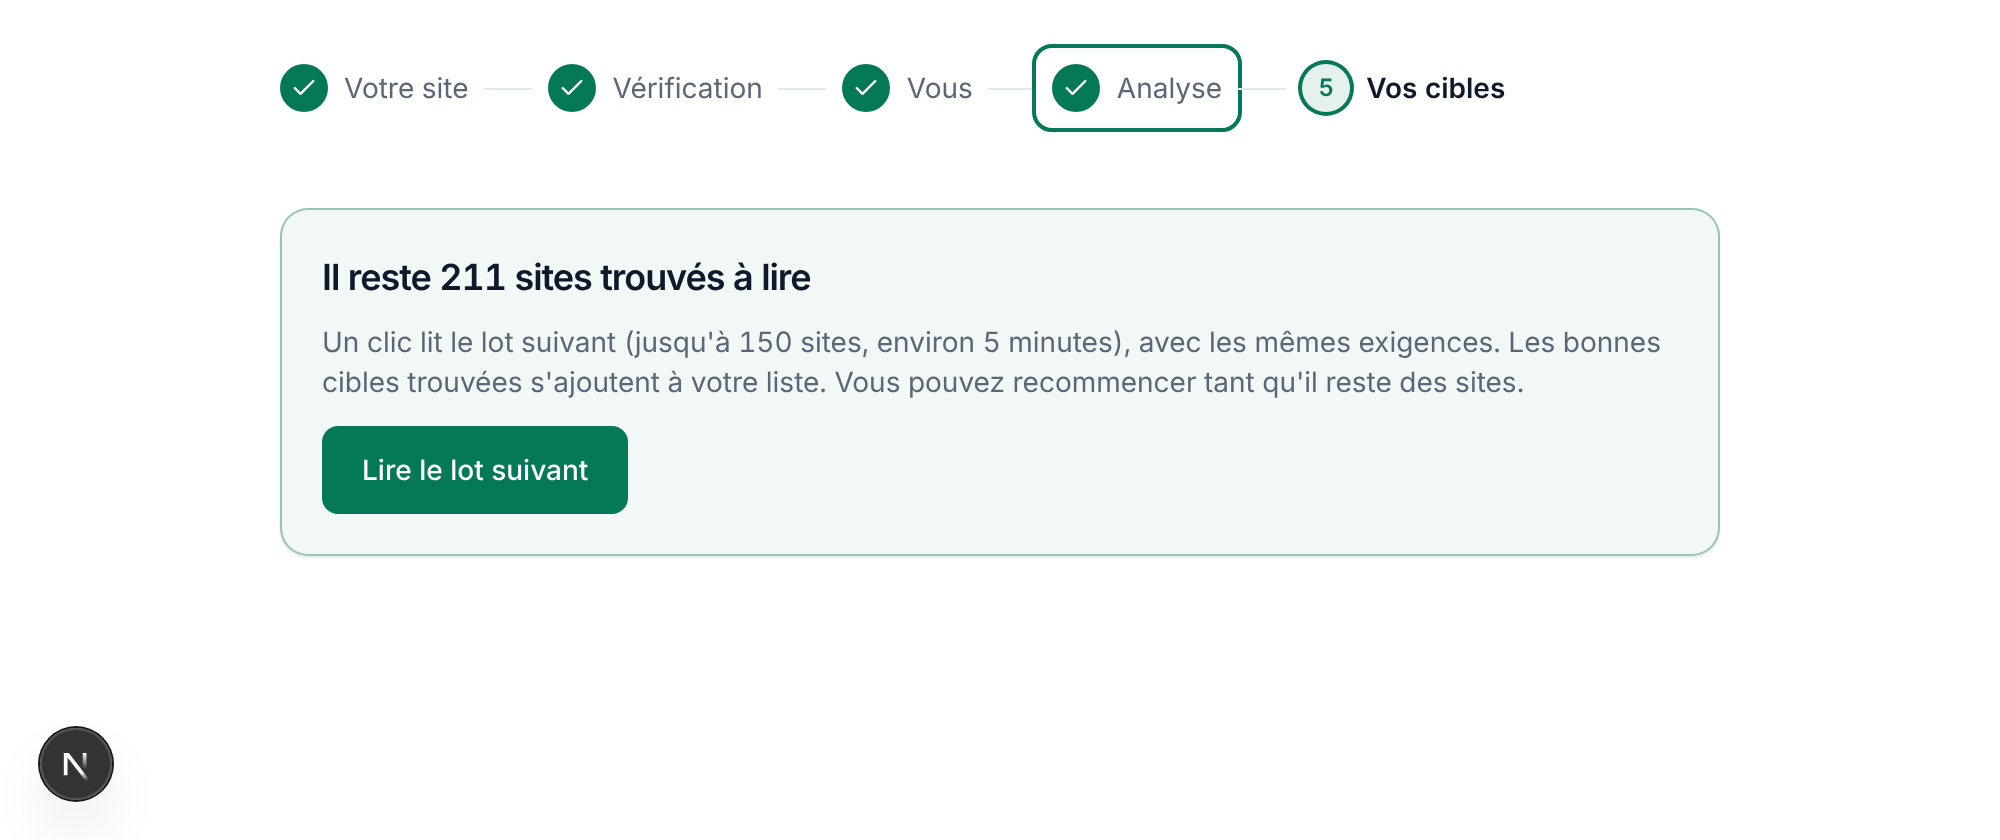
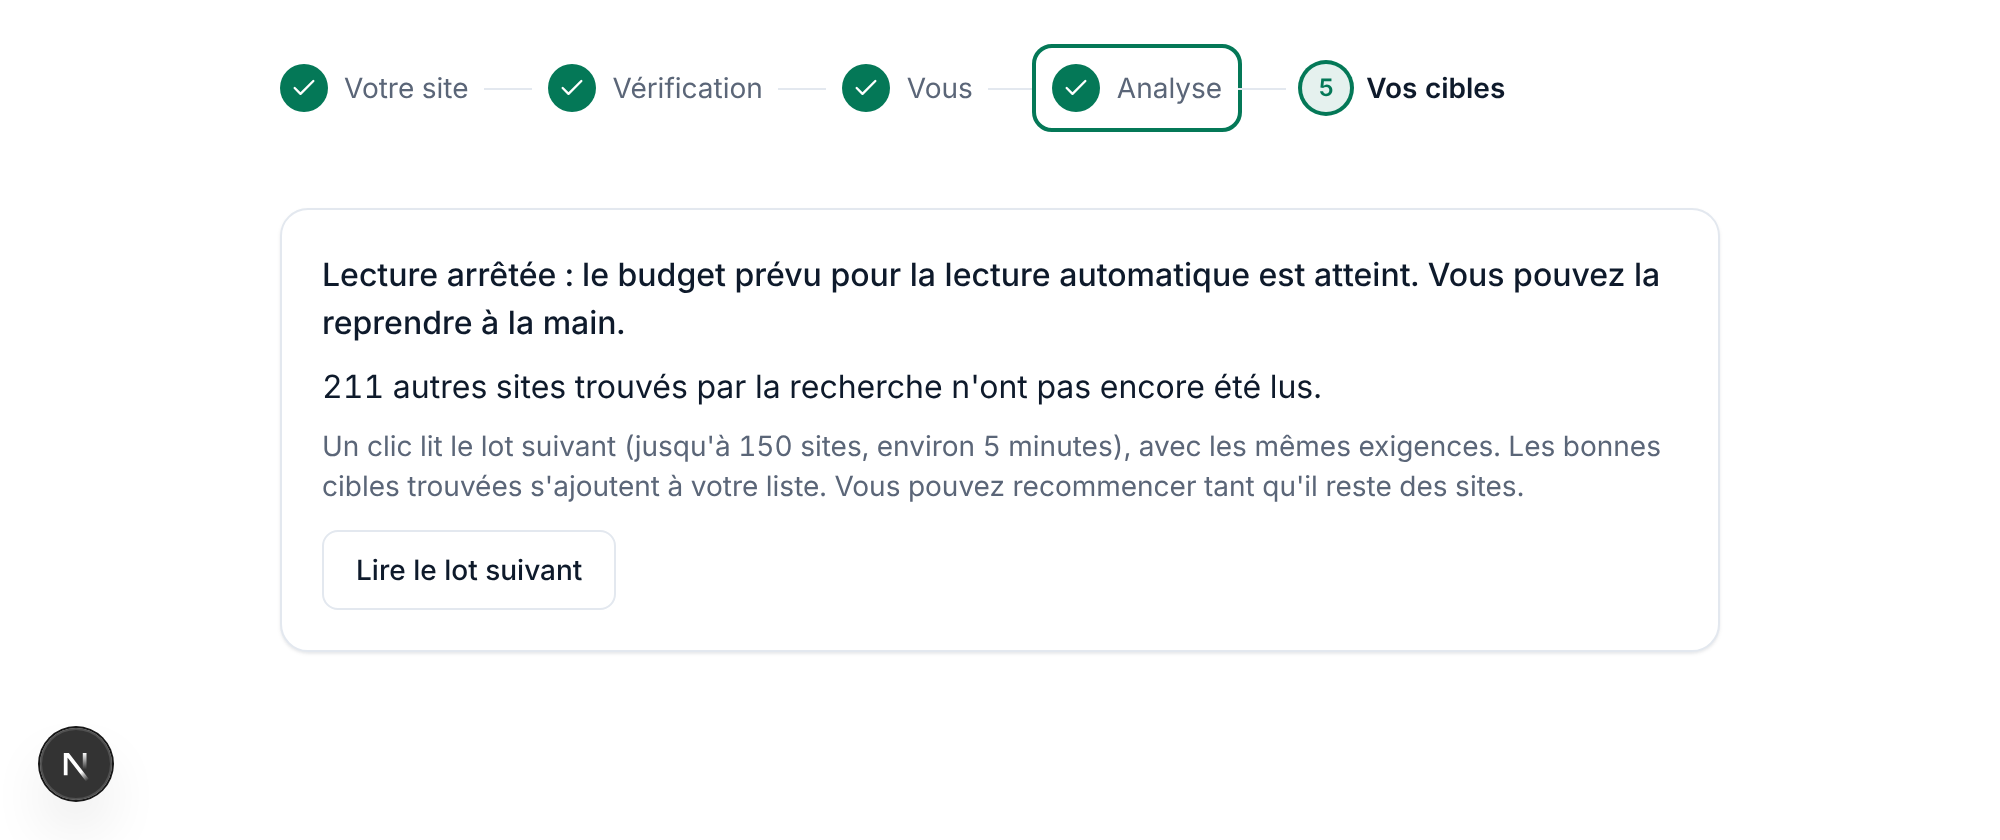
« Lire le lot suivant » : motif d'arrêt en clair, bouton secondaire
Lire les sites restants est le travail du produit : la carte dit pourquoi la
lecture automatique s'est arrêtée et propose de reprendre à la main, sans en
faire l'action principale. Conditions d'affichage inchangées.

Claude-Session: https://claude.ai/code/session_01PAPr5diAiCyyDNqhd4VWVd

Changed region(s): [[0.155, 0.3095, 0.837, 0.619], [0.155, 0.65, 0.31, 0.7119]]

diff --git a/src/features/targets/targets-screen.tsx b/src/features/targets/targets-screen.tsx
@@ -9,7 +9,6 @@ import { Card } from "@/components/ui/card";
 import { formatUsd } from "@/features/audits/format";
 import type { AuditActionState } from "@/features/audits/service";
 import { t } from "@/lib/messages";
-import { cn } from "@/lib/utils";
 import {
   cardTactics,
   countByTactic,
@@ -605,20 +604,19 @@ export function MoreSites({
   if (running) return null;
   if (funnel.stock === 0 && more.status === "aucun" && auto.status === "aucun") return null;
   return (
-    <Card
-      className={cn(
-        "flex flex-col gap-2 p-5",
-        // Des sites restent à lire : la carte se détache de la liste (retour de Jonathan, 18/11 : bouton introuvable).
-        funnel.stock > 0 && "border-primary/40 bg-primary/5",
-      )}
-      data-testid="more-sites"
-    >
+    <Card className="flex flex-col gap-2 p-5" data-testid="more-sites">
       {auto.status === "aucun" && more.status === "termine" && more.added !== null ? (
         <p className="font-medium">{R.done(more.added)}</p>
       ) : null}
+      {/* Lire les sites restants est le travail du produit, pas une étape attendue de la personne : la
+          carte dit d'abord POURQUOI la lecture automatique s'est arrêtée (précision de Jonathan, 18/11). */}
       {auto.status === "echoue" || (auto.status === "termine" && auto.stop === "erreur") ? (
         <p className="font-medium" data-testid="auto-done">
           {R.auto.stop.erreur}
+        </p>
+      ) : auto.status === "termine" && auto.stop && R.auto.stop[auto.stop] ? (
+        <p className="font-medium" data-testid="auto-stop">
+          {R.auto.stop[auto.stop]}
         </p>
       ) : null}
       {more.status === "echoue" && auto.status === "aucun" ? (
@@ -626,14 +624,13 @@ export function MoreSites({
       ) : null}
       {funnel.stock > 0 ? (
         <>
-          <h3 className="font-display text-lg font-semibold text-balance">
-            {R.title(funnel.stock)}
-          </h3>
+          <p>{R.stock(funnel.stock)}</p>
           <p className="text-sm text-muted-foreground">{R.hint}</p>
           <div className="pt-1">
+            {/* Secondaire : une reprise à la main après un arrêt, jamais l'action principale de l'écran. */}
             <Button
               type="button"
-              className="h-11 px-5"
+              variant="outline"
               disabled={pending}
               onClick={() =>
                 begin(async () => {

diff --git a/messages/fr.ts b/messages/fr.ts
@@ -1520,8 +1520,6 @@ export const fr = {
       newFilter: "Nouveaux",
     },
     more: {
-      title: (n: number) =>
-        n > 1 ? `Il reste ${n} sites trouvés à lire` : "Il reste 1 site trouvé à lire",
       stock: (n: number) =>
         `${n} ${n > 1 ? "autres sites trouvés par la recherche n'ont pas encore été lus" : "autre site trouvé par la recherche n'a pas encore été lu"}.`,
       hint: "Un clic lit le lot suivant (jusqu'à 150 sites, environ 5 minutes), avec les mêmes exigences. Les bonnes cibles trouvées s'ajoutent à votre liste. Vous pouvez recommencer tant qu'il reste des sites.",
@@ -1541,10 +1539,11 @@ export const fr = {
         stop: {
           reserve_epuisee: "Lecture terminée : tous les sites trouvés ont été lus.",
           budget:
-            "Lecture arrêtée : le budget prévu pour la lecture automatique est atteint. Vous pouvez lire d'autres sites à la main.",
+            "Lecture arrêtée : le budget prévu pour la lecture automatique est atteint. Vous pouvez la reprendre à la main.",
           rendement_faible:
             "Lecture arrêtée : les deux dernières lectures n'ont presque rien apporté, nous n'ajoutons rien pour faire du volume.",
-          duree: "Lecture arrêtée : la durée maximale de 25 minutes est atteinte.",
+          duree:
+            "Lecture arrêtée : la durée maximale de 25 minutes est atteinte. Vous pouvez la reprendre à la main.",
           erreur: "La lecture automatique s'est arrêtée sur une erreur. Vous pouvez la relancer.",
         } as Record<string, string>,
       },

diff --git a/src/app/demo/lot-suivant/page.tsx b/src/app/demo/lot-suivant/page.tsx
@@ -16,7 +16,7 @@ export default function DemoLotSuivantPage() {
   const more = {
     status: "aucun",
     added: null,
-    auto: { status: "termine", added: 4, stop: "rendement_faible", startedAt: null },
+    auto: { status: "termine", added: 4, stop: "budget", startedAt: null },
   } as unknown as TargetsView["more"];
   return (
     <main className="mx-auto flex w-full max-w-3xl flex-col gap-6 px-4 py-8 sm:px-6">

diff --git a/PROGRESS.md b/PROGRESS.md
@@ -2215,11 +2215,12 @@ Démonstration sans base : `NEXT_PUBLIC_APP_URL=http://localhost:3100 NEXT_PUBLI
 
 Deux demandes de Jonathan relayées par la session parente (affichage seulement, aucune condition changée) :
 
-| Constat                                                                         | Ce que fait le code                                                                                                                      | Verdict     | Après                                                                                                                                                                                                                                                                                                                                      |
-| ------------------------------------------------------------------------------- | ---------------------------------------------------------------------------------------------------------------------------------------- | ----------- | ------------------------------------------------------------------------------------------------------------------------------------------------------------------------------------------------------------------------------------------------------------------------------------------------------------------------------------------ |
-| Barre d'étapes du haut (« 4 Analyse », « 5 Vos cibles ») : rien n'est cliquable | `JourneySteps` n'affichait que du texte ; seul « Voir le détail de l'analyse », en bas de « Vos cibles », menait à l'analyse.            | Manque      | `JourneySteps` reçoit `links` : depuis « Vos cibles », « Analyse » ouvre `/app/site/<id>/analyse?etapes=1` (ou l'écran en cours si l'analyse tourne) ; depuis le détail d'une analyse finie, « Vos cibles » est cliquable. Lien, survol, focus clavier, nom accessible « Ouvrir l'étape Analyse » ; l'étape en cours n'est jamais un lien. |
-| Bouton « Lire le lot suivant » introuvable                                      | `MoreSites` : carte sans titre, bouton en contour, sous la liste ; conditions `funnel.stock`, `more.status`, `auto.status` (inchangées). | Peu visible | Carte teintée avec un titre « Il reste N sites trouvés à lire », le texte qui dit ce qu'un clic fait, bouton plein.                                                                                                                                                                                                                        |
+| Constat                                                                         | Ce que fait le code                                                                                                                                                                                | Verdict            | Après                                                                                                                                                                                                                                                                                                                                      |
+| ------------------------------------------------------------------------------- | -------------------------------------------------------------------------------------------------------------------------------------------------------------------------------------------------- | ------------------ | ------------------------------------------------------------------------------------------------------------------------------------------------------------------------------------------------------------------------------------------------------------------------------------------------------------------------------------------ |
+| Barre d'étapes du haut (« 4 Analyse », « 5 Vos cibles ») : rien n'est cliquable | `JourneySteps` n'affichait que du texte ; seul « Voir le détail de l'analyse », en bas de « Vos cibles », menait à l'analyse.                                                                      | Manque             | `JourneySteps` reçoit `links` : depuis « Vos cibles », « Analyse » ouvre `/app/site/<id>/analyse?etapes=1` (ou l'écran en cours si l'analyse tourne) ; depuis le détail d'une analyse finie, « Vos cibles » est cliquable. Lien, survol, focus clavier, nom accessible « Ouvrir l'étape Analyse » ; l'étape en cours n'est jamais un lien. |
+| Bouton « Lire le lot suivant » introuvable                                      | `MoreSites` : carte sans titre sous la liste ; conditions `funnel.stock`, `more.status`, `auto.status` (inchangées). Le motif d'arrêt de la lecture automatique n'y était dit que pour une erreur. | Peu compréhensible | La carte dit d'abord POURQUOI la lecture automatique s'est arrêtée (budget, durée, peu de résultats, erreur), puis combien de sites restent à lire ; le bouton reste secondaire (contour).                                                                                                                                                 |
 
+- **Précision de Jonathan (relayée, 18/11)** : devoir cliquer pour lire les sites restants est un défaut de produit (MC.6f rend la lecture entièrement automatique). Le bouton n'est donc PAS présenté comme l'action principale ni comme une étape attendue : il sert à reprendre à la main après un arrêt. Une première version de cette PR le mettait en avant (carte teintée, bouton plein) : retirée. Le message rassurant pendant la lecture (« Nous continuons à lire les autres sites trouvés… N sites restent à lire. Cette liste se met à jour toute seule. ») existe déjà dans le bandeau du haut (`LiveBanner`), non touché.
 - Les étapes « Votre site », « Vérification » et « Vous » ne sont pas cliquables : je n'ai pas vérifié que leurs écrans se rouvrent sans effet une fois l'analyse lancée (backlog).
 - La carte n'apparaît pas pendant qu'une lecture tourne ni quand il ne reste rien à lire (conditions existantes, non touchées : MC.6f retravaille la lecture de la réserve).
 - Vérifié sur une page de démonstration (`/demo/lot-suivant`, absente en production), pas sur « Vos cibles » avec de vraies données.
